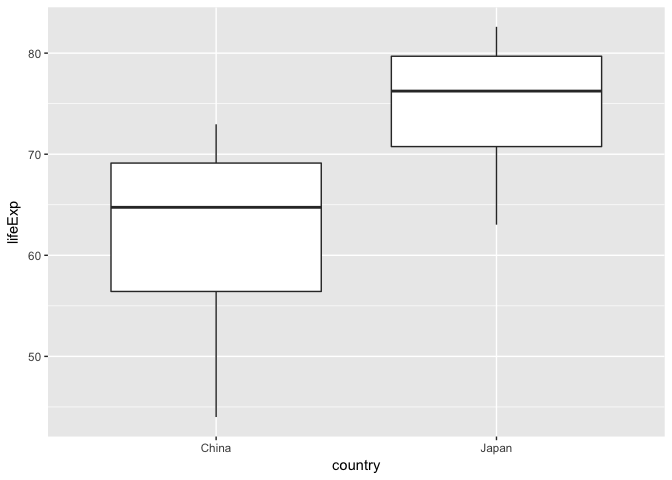
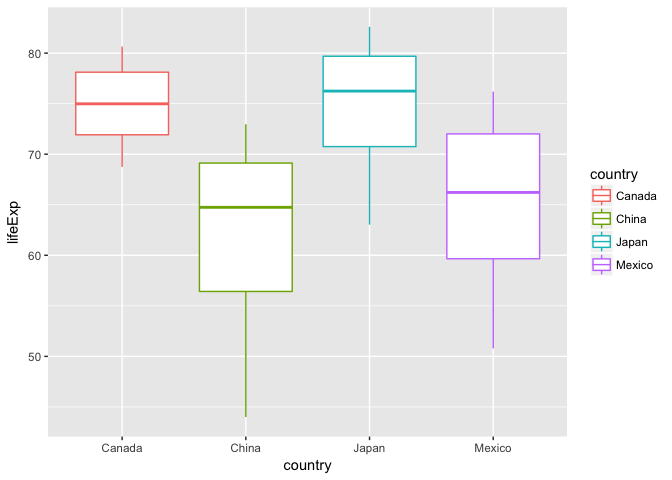
final version

diff --git a/hw02/hw02.md b/hw02/hw02.md
@@ -222,6 +222,14 @@ p3 + geom_boxplot(color="light pink")
 
 ![](hw02_files/figure-markdown_github-ascii_identifiers/unnamed-chunk-19-1.png)
 
+``` r
+gapminder%>%
+  filter(country%in%c("China","Japan","Mexico","Canada"))%>%
+  ggplot(aes(x=country,y=lifeExp))+geom_boxplot(aes(color=country))
+```
+
+![](hw02_files/figure-markdown_github-ascii_identifiers/unnamed-chunk-20-1.png)
+
 Now, we explore a subset of data. We want to compare the life expectation of coutries in Aisa whose mean GDP is over 1000 billion.
 
 ``` r
@@ -232,7 +240,7 @@ out1<-gapminder%>%
 ggplot(out1, aes(x=country,y=lifeExp)) + geom_boxplot()
 ```
 
-![](hw02_files/figure-markdown_github-ascii_identifiers/unnamed-chunk-20-1.png)
+![](hw02_files/figure-markdown_github-ascii_identifiers/unnamed-chunk-21-1.png)
 
 So,only China and Japan have mean GDP&gt;1000 in Asia, and obviously, the life expectation of Japan is longer then it of China.
 
@@ -245,7 +253,7 @@ subset=filter(gapminder,country %in% c("Canada", "China", "Japan", "Mexico"))
 ggplot(subset, aes(x = year, y = lifeExp, color = country)) + geom_line() + geom_point()
 ```
 
-![](hw02_files/figure-markdown_github-ascii_identifiers/unnamed-chunk-21-1.png)
+![](hw02_files/figure-markdown_github-ascii_identifiers/unnamed-chunk-22-1.png)
 
 Now, we can try to use piping.
 
@@ -255,7 +263,7 @@ gapminder %>%
   ggplot(aes(x = year, y = lifeExp, color = country)) + geom_line() + geom_point()
 ```
 
-![](hw02_files/figure-markdown_github-ascii_identifiers/unnamed-chunk-22-1.png) \#\#More things
+![](hw02_files/figure-markdown_github-ascii_identifiers/unnamed-chunk-23-1.png) \#\#More things
 
 Evaluate this code and describe the result.
 
